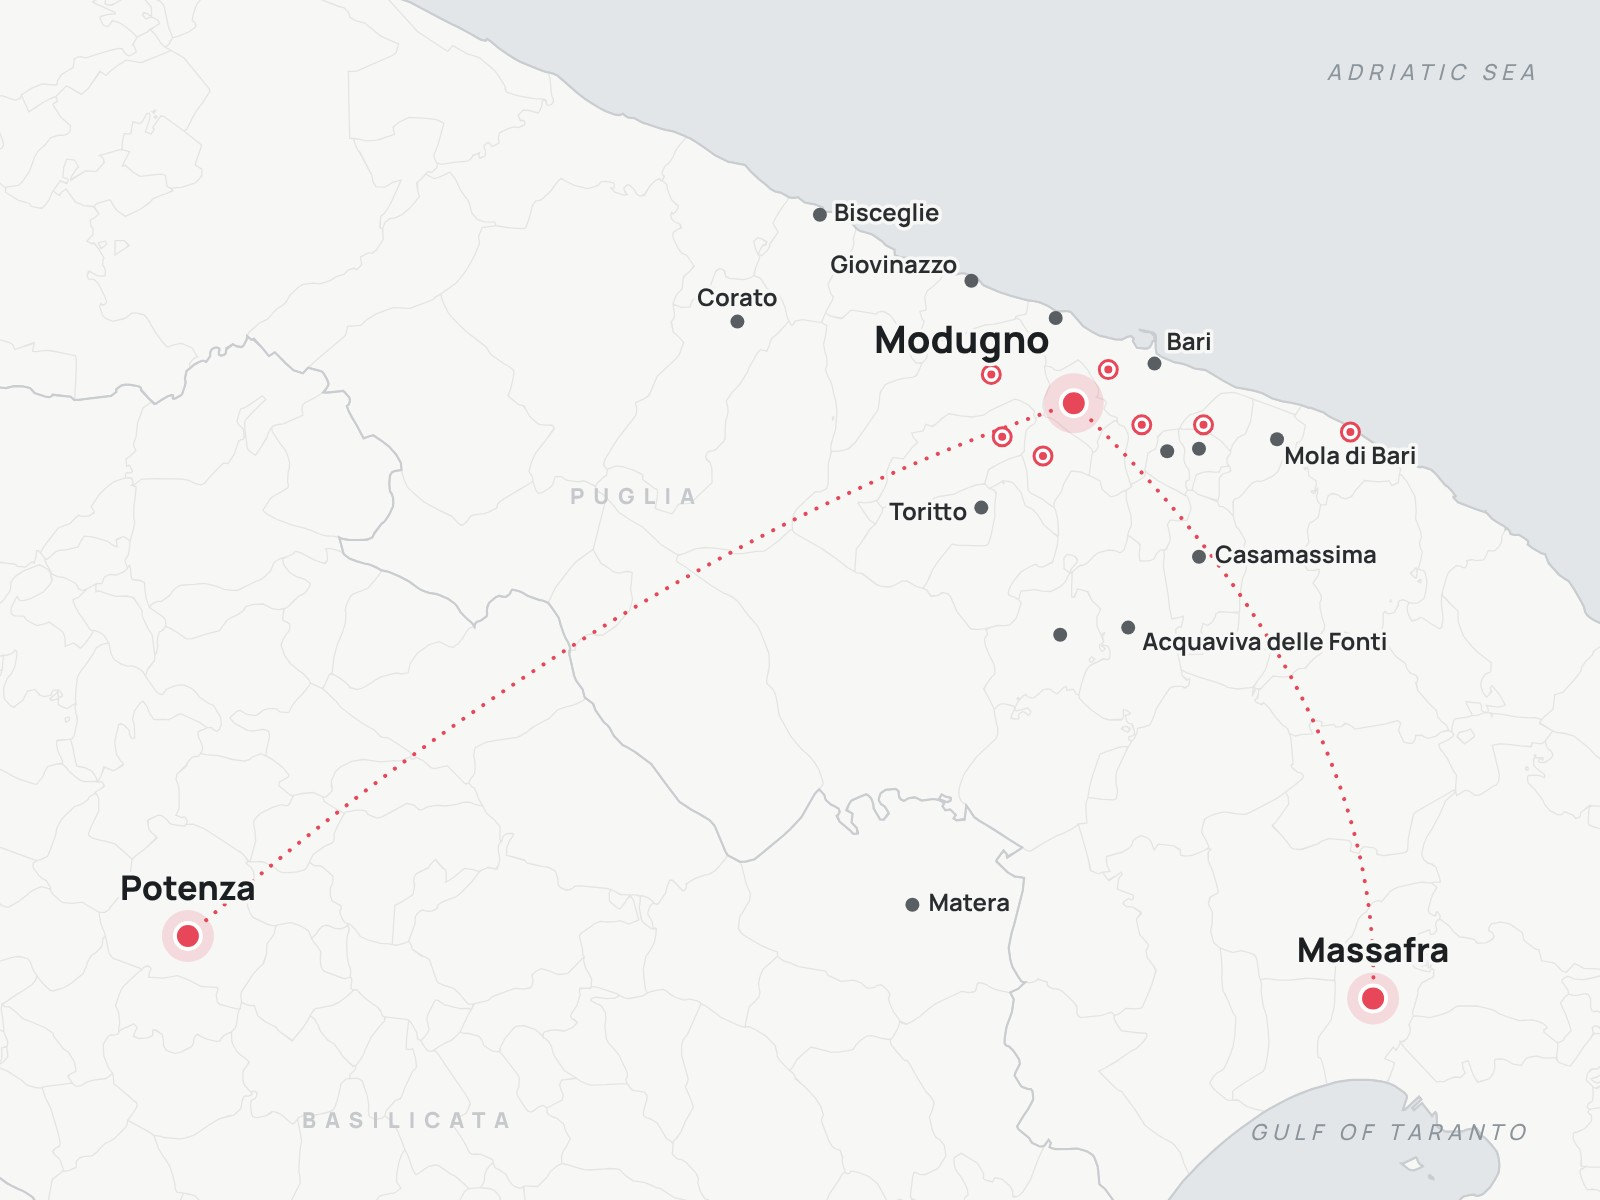
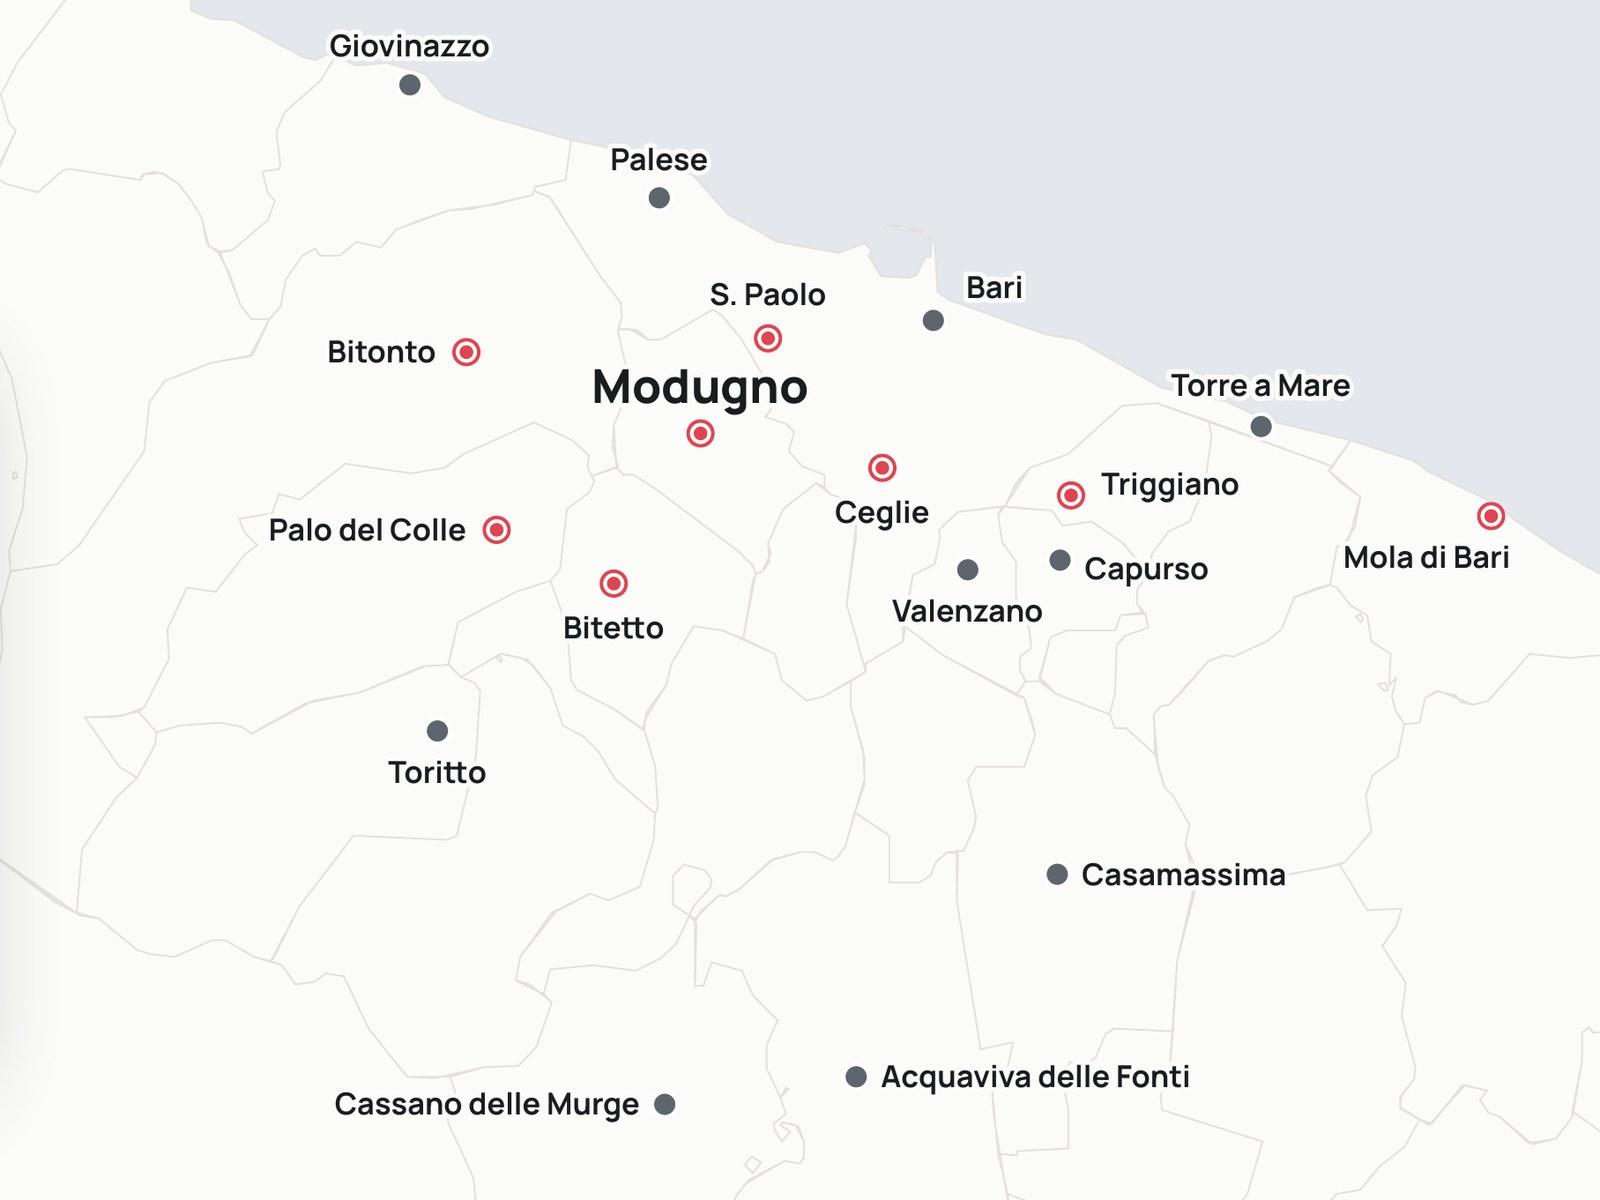
First Plant & Strengthen update with map; restore Bari-area card image
Claude-Session: https://claude.ai/code/session_013kztrHzovLqwhmGrDJ4oHt

diff --git a/public/updates/plant-and-strengthen-first-steps/index.html b/public/updates/plant-and-strengthen-first-steps/index.html
@@ -1,0 +1,97 @@
+<!doctype html>
+<html lang="en">
+<head>
+<meta charset="utf-8">
+<meta name="viewport" content="width=device-width, initial-scale=1">
+<title>Beyond Modugno: Giugliano, Potenza and Massafra · From the Heel of Italy</title>
+<meta name="description" content="Our first update from Plant &amp; Strengthen: the places outside our city where we are already helping churches to be born and to stand firm.">
+<link rel="canonical" href="https://fromtheheelofitaly.org/updates/plant-and-strengthen-first-steps/">
+<meta property="og:title" content="Beyond Modugno: Giugliano, Potenza and Massafra · From the Heel of Italy">
+<meta property="og:description" content="Our first update from Plant &amp; Strengthen: the places outside our city where we are already helping churches to be born and to stand firm.">
+<meta property="og:url" content="https://fromtheheelofitaly.org/updates/plant-and-strengthen-first-steps/">
+<meta property="og:type" content="website">
+<meta property="og:image" content="https://fromtheheelofitaly.org/images/2026-11-plant-strengthen-map.jpg">
+<meta name="theme-color" content="#f6f6f6">
+<meta name="robots" content="noindex, nofollow">
+<link rel="icon" href="/img/pv-glifo.svg" type="image/svg+xml">
+<link rel="preload" href="/fonts/manrope-latin-400-normal.woff2" as="font" type="font/woff2" crossorigin>
+<link rel="alternate" type="application/rss+xml" title="From the Heel of Italy" href="/feed.xml">
+<link rel="stylesheet" href="/css/style.css">
+</head>
+<body>
+<header class="site-header">
+  <div class="wrap">
+    <a class="brand" href="/"><img class="pv-logo" src="/img/pv-glifo.svg" alt="Chiesa Pienovangelo"><span class="sep"></span><span class="upd">Updates</span></a>
+    <button class="nav-toggle" aria-label="Menu" onclick="document.querySelector('.nav').classList.toggle('open')">Menu</button>
+    <nav class="nav"><a href="/family/">Family</a><a href="/church/">Church Life</a><a href="/il-rifugio/">Il Rifugio</a><a href="/missions/">Missions</a><a href="/plant-and-strengthen/" class=active>Church Planting</a><a class="btn-sub" href="/support/">Support</a></nav>
+  </div>
+</header>
+<main>
+<article>
+  <header class="article-head"><div class="narrow">
+    <a class="eyebrow" href="/plant-and-strengthen/">Plant &amp; Strengthen</a>
+    <h1 class="display">Beyond Modugno: Giugliano, Potenza and Massafra</h1>
+    <div class="meta">19 November 2026 · Pastor Mirko Ronchi</div>
+  </div></header>
+  <div class="article-cover"><div class="media "><img src="/images/2026-11-plant-strengthen-map.jpg" alt="Map of southern Italy with dotted lines from Modugno to Giugliano, Potenza and Massafra" loading="lazy"></div></div>
+  <div class="narrow page-body"><div class="prose-card prose"><p>Dear friends,</p>
+<p>Our church in Modugno was born in the 1970s from the work of missionaries from the Netherlands, supported by Dutch churches. We have never forgotten it. Someone planted and watered so that a church could grow here. From the beginning we have felt the responsibility to do the same for others: to help new churches be born, and to stand beside churches that are going through a hard time.</p>
+<p>This first update from <strong>Plant &amp; Strengthen</strong> is a simple map of where this is already happening.</p>
+<p><strong>Potenza.</strong> In the main city of Basilicata we have been walking alongside a church that has gone through a deeply difficult season. Our role is not to take over, but to support, encourage and help it get back on its feet.</p>
+<p><strong>Giugliano.</strong> Near Naples, we have accompanied a couple who started a new church community. Planting a church is lonely work, and we want them to know that they are not alone.</p>
+<p><strong>Massafra.</strong> In the province of Taranto, we supported the church through a delicate transition to new pastors. Nearby, in Mottola, a church plant we had begun came to a halt for various reasons. But the new leadership in Massafra has opened its doors to the believers reached in Mottola, and they are now part of a renewed church.</p>
+<p><strong>Southern Puglia.</strong> We have also begun a new church planting project in the south of our own region.</p>
+<h2>Looking ahead</h2>
+<p>Our desire is that in the next ten years new churches will be born all across Puglia. It is still a region where, even in the larger towns, there is often no living and healthy church. God has already given us leaders who are prepared and carry this vision. Today they serve while balancing work, family and ministry, and we are praying for the way to release them to serve full time.</p>
+<h2>How you can pray</h2>
+<ul>
+<li>For the churches in Potenza, Giugliano and Massafra, and for their leaders.</li>
+<li>For the new church planting project in southern Puglia.</li>
+<li>For the leaders God is preparing to plant new churches in our region.</li>
+</ul>
+<p>In the coming updates we will tell you more about each of these places and the people behind them. Thank you for standing with us.</p>
+<p><em>Pastor Mirko</em></p>
+    <div class="article-foot"><a href="/plant-and-strengthen/">← All Plant &amp; Strengthen updates</a><a href="#subscribe">Get updates by email →</a></div>
+  </div></div>
+</article>
+
+<section class="subscribe" id="subscribe"><div class="wrap"><div class="box">
+  <div>
+    <h2 class="display">Walk <em>with us</em></h2>
+    <p>A short update every few weeks: one story, one photo and a link to read more. No spam, unsubscribe anytime.</p>
+  </div>
+  <div class="actions">
+    <a class="btn btn-primary" href="#subscribe">Subscribe</a>
+    <a class="btn btn-light" href="/support/">Support the work</a>
+  </div>
+</div></div></section>
+</main>
+<footer class="site-footer">
+  <div class="wrap">
+    <div class="cols">
+      <div>
+        <a class="foot-brand" href="https://pienovangelo.it" rel="noopener"><img src="/img/pv-glifo.svg" alt="Chiesa Pienovangelo"></a>
+        <p class="brandline">From the Heel of Italy<br><em>to the ends of the earth</em></p>
+        <p>Updates from the Pieno Vangelo ministry and the Ronchi family: our church in Modugno, Il Rifugio, missions and church planting across Puglia and beyond.</p>
+      </div>
+      <div>
+        <h4>Areas</h4>
+        <ul><li><a href="/family/">Family Life</a></li><li><a href="/church/">Church Life</a></li><li><a href="/il-rifugio/">Il Rifugio Center</a></li><li><a href="/missions/">To the Ends of the Earth</a></li><li><a href="/plant-and-strengthen/">Plant &amp; Strengthen</a></li></ul>
+      </div>
+      <div>
+        <h4>Stay in touch</h4>
+        <ul>
+          <li><a href="#subscribe">Subscribe to the newsletter</a></li>
+          <li><a href="/support/">Support the work</a></li>
+          <li><a href="/about/">About us</a></li>
+          
+          <li><a href="https://pienovangelo.it" rel="noopener">pienovangelo.it</a></li>
+          <li><a href="/feed.xml">RSS feed</a></li>
+        </ul>
+      </div>
+    </div>
+    <p class="small">© 2026 Pieno Vangelo Church · Modugno (BA), Italy · <a href="/privacy/">Privacy</a></p>
+  </div>
+</footer>
+</body>
+</html>

diff --git a/public/index.html b/public/index.html
@@ -42,15 +42,23 @@
     <h2 class="display">Latest updates</h2>
     <a class="link" href="/updates/">All updates →</a>
   </div>
-  <a class="featured" href="/updates/welcome/">
+  <a class="featured" href="/updates/plant-and-strengthen-first-steps/">
+  <div class="media "><img src="/images/2026-11-plant-strengthen-map.jpg" alt="Map of southern Italy with dotted lines from Modugno to Giugliano, Potenza and Massafra" loading="lazy"></div>
+  <div class="body">
+    <span class="tag">Plant &amp; Strengthen</span>
+    <h3>Beyond Modugno: Giugliano, Potenza and Massafra</h3>
+    <p>Our first update from Plant &amp; Strengthen: the places outside our city where we are already helping churches to be born and to stand firm.</p>
+    <span class="meta">19 November 2026 · Read more →</span>
+  </div>
+</a><div class="grid top"><a class="card" href="/updates/welcome/">
   <div class="media ph " style="--c:#e74759"><svg viewBox="0 0 24 24" fill="none" stroke="currentColor" stroke-width="1.8" stroke-linecap="round" stroke-linejoin="round"><path d="M12 2v5M10 4h4"/><path d="M6 21V11l6-4 6 4v10"/><path d="M3 21h18"/><path d="M10 21v-4a2 2 0 0 1 4 0v4"/></svg></div>
   <div class="body">
     <span class="tag">News</span>
     <h3>Welcome to our updates</h3>
     <p>Why we are starting this newsletter, what you will find here, and how you can walk with us from Puglia to the nations.</p>
-    <span class="meta">18 November 2026 · Read more →</span>
+    <span class="meta">18 November 2026</span>
   </div>
-</a>
+</a></div>
 </div></section>
 <section><div class="wrap">
   <div class="section-head">
@@ -91,7 +99,7 @@
 </a><a class="area-card" href="/plant-and-strengthen/" style="--c:#8a9a3b">
   <div class="media"><img src="/images/area-planting.jpg" alt="" loading="lazy"></div>
   <div class="body">
-    <span class="tag">Coming soon</span>
+    <span class="tag">1 update</span>
     <h3>Plant &amp; Strengthen</h3>
     <p>Planting new churches across Puglia, a region where many towns still have no living church, and standing alongside existing churches that need support to keep going.</p>
     <span class="go">Read the updates</span>

diff --git a/public/updates/index.html b/public/updates/index.html
@@ -32,7 +32,15 @@
   <h1 class="display">All <em>updates</em></h1>
   <nav class="chips"><a href="/updates/" class=on>All</a><a href="/family/">Family</a><a href="/church/">Church Life</a><a href="/il-rifugio/">Il Rifugio</a><a href="/missions/">Missions</a><a href="/plant-and-strengthen/">Church Planting</a></nav>
 </div></header>
-<section><div class="wrap"><div class="grid "><a class="card" href="/updates/welcome/">
+<section><div class="wrap"><div class="grid "><a class="card" href="/updates/plant-and-strengthen-first-steps/">
+  <div class="media "><img src="/images/2026-11-plant-strengthen-map.jpg" alt="Map of southern Italy with dotted lines from Modugno to Giugliano, Potenza and Massafra" loading="lazy"></div>
+  <div class="body">
+    <span class="tag">Plant &amp; Strengthen</span>
+    <h3>Beyond Modugno: Giugliano, Potenza and Massafra</h3>
+    <p>Our first update from Plant &amp; Strengthen: the places outside our city where we are already helping churches to be born and to stand firm.</p>
+    <span class="meta">19 November 2026</span>
+  </div>
+</a><a class="card" href="/updates/welcome/">
   <div class="media ph " style="--c:#e74759"><svg viewBox="0 0 24 24" fill="none" stroke="currentColor" stroke-width="1.8" stroke-linecap="round" stroke-linejoin="round"><path d="M12 2v5M10 4h4"/><path d="M6 21V11l6-4 6 4v10"/><path d="M3 21h18"/><path d="M10 21v-4a2 2 0 0 1 4 0v4"/></svg></div>
   <div class="body">
     <span class="tag">News</span>

diff --git a/public/plant-and-strengthen/index.html b/public/plant-and-strengthen/index.html
@@ -31,7 +31,7 @@
   <div class="window has-img" style="--c:#8a9a3b">
     <div class="bg"><img src="/images/area-planting.jpg" alt="" loading="lazy"></div>
     <div class="inner">
-      <span class="count">Coming soon</span>
+      <span class="count">1 update</span>
       <h1>Plant &amp; Strengthen</h1>
       <p>Planting new churches across Puglia, a region where many towns still have no living church, and standing alongside existing churches that need support to keep going.</p>
     </div>
@@ -41,7 +41,15 @@
 
 <section><div class="wrap">
   
-  <div class="empty">The first update from this area is on its way.</div>
+  <div class="grid "><a class="card" href="/updates/plant-and-strengthen-first-steps/">
+  <div class="media "><img src="/images/2026-11-plant-strengthen-map.jpg" alt="Map of southern Italy with dotted lines from Modugno to Giugliano, Potenza and Massafra" loading="lazy"></div>
+  <div class="body">
+    <span class="tag">Plant &amp; Strengthen</span>
+    <h3>Beyond Modugno: Giugliano, Potenza and Massafra</h3>
+    <p>Our first update from Plant &amp; Strengthen: the places outside our city where we are already helping churches to be born and to stand firm.</p>
+    <span class="meta">19 November 2026</span>
+  </div>
+</a></div>
 </div></section>
 <section class="subscribe" id="subscribe"><div class="wrap"><div class="box">
   <div>

diff --git a/public/updates/welcome/index.html b/public/updates/welcome/index.html
@@ -51,7 +51,18 @@
     <div class="article-foot"><a href="/updates/">← All updates</a><a href="#subscribe">Get updates by email →</a></div>
   </div></div>
 </article>
-
+<section><div class="wrap">
+  <div class="section-head"><h2 class="display">More updates</h2></div>
+  <div class="grid "><a class="card" href="/updates/plant-and-strengthen-first-steps/">
+  <div class="media "><img src="/images/2026-11-plant-strengthen-map.jpg" alt="Map of southern Italy with dotted lines from Modugno to Giugliano, Potenza and Massafra" loading="lazy"></div>
+  <div class="body">
+    <span class="tag">Plant &amp; Strengthen</span>
+    <h3>Beyond Modugno: Giugliano, Potenza and Massafra</h3>
+    <p>Our first update from Plant &amp; Strengthen: the places outside our city where we are already helping churches to be born and to stand firm.</p>
+    <span class="meta">19 November 2026</span>
+  </div>
+</a></div>
+</div></section>
 <section class="subscribe" id="subscribe"><div class="wrap"><div class="box">
   <div>
     <h2 class="display">Walk <em>with us</em></h2>

diff --git a/brand/map-modugno-giugliano-potenza-massafra.py b/brand/map-modugno-giugliano-potenza-massafra.py
@@ -1,0 +1,71 @@
+import json, math
+W, H = 1600, 1200
+LON0 = 15.65
+KX = W / 3.6
+LAT0 = 40.93
+K = KX / math.cos(math.radians(LAT0))
+LAT_TOP = LAT0 + (H / 2) / K
+def xy(lon, lat): return ((lon - LON0) * KX + W/2, (LAT_TOP - lat) * K)
+
+def rings(geom):
+    if geom["type"] == "Polygon": return geom["coordinates"]
+    if geom["type"] == "MultiPolygon": return [r for poly in geom["coordinates"] for r in poly]
+    return []
+def path(geom, simplify=1.2):
+    out = []
+    for ring in rings(geom):
+        pts = [xy(*p[:2]) for p in ring]
+        xs = [p[0] for p in pts]; ys = [p[1] for p in pts]
+        if max(xs) < -200 or min(xs) > W+200 or max(ys) < -200 or min(ys) > H+200: continue
+        keep = [pts[0]]
+        for p in pts[1:]:
+            if abs(p[0]-keep[-1][0]) + abs(p[1]-keep[-1][1]) >= simplify: keep.append(p)
+        if len(keep) > 2: out.append("M" + " L".join(f"{x:.1f},{y:.1f}" for x, y in keep) + "Z")
+    return "".join(out)
+
+regions = json.load(open("/tmp/geo/limits_IT_regions.geojson"))["features"]
+land = "".join(path(f["geometry"]) for f in regions if f["properties"]["reg_name"] in ("Puglia","Basilicata","Campania","Calabria","Molise","Lazio","Abruzzo"))
+regline = "".join(path(f["geometry"]) for f in regions if f["properties"]["reg_name"] in ("Puglia","Basilicata","Campania","Molise","Calabria"))
+muni = ""
+for r in (15, 16, 17):
+    for f in json.load(open(f"/tmp/geo/limits_R_{r}_municipalities.geojson"))["features"]:
+        muni += path(f["geometry"], simplify=2.2)
+
+modugno = (16.782, 41.084)
+targets = {"Giugliano": (14.196, 40.928, "middle", -40), "Potenza": (15.805, 40.640, "middle", -40), "Massafra": (17.112, 40.588, "middle", -40)}
+mx, my = xy(*modugno)
+arcs, marks = [], []
+for n, (lo, la, anc, dy) in targets.items():
+    x, y = xy(lo, la)
+    if n == "Giugliano": c = ((mx + x)/2, min(my, y) - 230)
+    elif n == "Potenza": c = ((mx + x)/2 - 40, (my + y)/2 - 110)
+    else: c = ((mx + x)/2 + 130, (my + y)/2)
+    arcs.append(f'<path d="M{mx:.1f},{my:.1f} Q{c[0]:.1f},{c[1]:.1f} {x:.1f},{y:.1f}" fill="none" stroke="#e74759" stroke-width="4.5" stroke-linecap="round" stroke-dasharray=".1 13"/>')
+    marks.append(f'<circle cx="{x:.1f}" cy="{y:.1f}" r="40" fill="#f4b41a" opacity=".22"/>'
+                 f'<circle cx="{x:.1f}" cy="{y:.1f}" r="21" fill="#f4b41a" stroke="#fff" stroke-width="5"/>'
+                 f'<text x="{x:.1f}" y="{y+dy-8:.1f}" text-anchor="{anc}" font-size="38" font-weight="800" fill="#1c1f21" class="halo">{n}</text>')
+marks.append(f'<circle cx="{mx:.1f}" cy="{my:.1f}" r="32" fill="#e74759" opacity=".18"/><circle cx="{mx:.1f}" cy="{my:.1f}" r="15" fill="#e74759" stroke="#fff" stroke-width="5"/>'
+             f'<text x="{mx:.1f}" y="{my-40:.1f}" text-anchor="middle" font-size="40" font-weight="800" fill="#1c1f21" class="halo">Modugno</text>')
+def t(lon, lat, s, cls): x, y = xy(lon, lat); return f'<text x="{x:.0f}" y="{y:.0f}" text-anchor="middle" class="{cls}">{s}</text>'
+svg = f'''<svg xmlns="http://www.w3.org/2000/svg" width="{W}" height="{H}" viewBox="0 0 {W} {H}">
+<style>
+@font-face{{font-family:M;src:url(file:///home/claude/fromtheheelofitaly/static/fonts/manrope-latin-500-normal.woff2);font-weight:500}}
+@font-face{{font-family:M;src:url(file:///home/claude/fromtheheelofitaly/static/fonts/manrope-latin-800-normal.woff2);font-weight:800}}
+text{{font-family:M,sans-serif}}
+.halo{{paint-order:stroke;stroke:#f7f7f6;stroke-width:8px;stroke-linejoin:round}}
+.sea{{font-size:22px;font-weight:500;fill:#8a949a;letter-spacing:6px;font-style:italic}}
+.reg{{font-size:22px;font-weight:800;fill:#c3c7c9;letter-spacing:9px}}
+</style>
+<rect width="{W}" height="{H}" fill="#e2e6e9"/>
+<path d="{land}" fill="#f7f7f6" stroke="#cfd3d6" stroke-width="1.5"/>
+<path d="{muni}" fill="none" stroke="#e7e8e6" stroke-width="1.1"/>
+<path d="{regline}" fill="none" stroke="#c9cdd0" stroke-width="2.2"/>
+{t(17.05, 41.75, "ADRIATIC SEA", "sea")}
+{t(14.45, 40.25, "TYRRHENIAN SEA", "sea")}
+{t(16.88, 40.08, "GULF OF TARANTO", "sea")}
+{t(14.85, 41.22, "CAMPANIA", "reg")}
+{t(16.05, 40.30, "BASILICATA", "reg")}
+{t(16.20, 41.30, "PUGLIA", "reg")}
+{"".join(arcs)}{"".join(marks)}
+</svg>'''
+open("/tmp/mapgen/map2.svg", "w").write(svg)

diff --git a/content/posts/2026-11-19-plant-and-strengthen-first-steps.md b/content/posts/2026-11-19-plant-and-strengthen-first-steps.md
@@ -1,0 +1,36 @@
+---
+title: Beyond Modugno: Giugliano, Potenza and Massafra
+date: 2026-11-19
+area: plant-and-strengthen
+cover: /images/2026-11-plant-strengthen-map.jpg
+cover_alt: Map of southern Italy with dotted lines from Modugno to Giugliano, Potenza and Massafra
+excerpt: Our first update from Plant & Strengthen: the places outside our city where we are already helping churches to be born and to stand firm.
+---
+
+Dear friends,
+
+Our church in Modugno was born in the 1970s from the work of missionaries from the Netherlands, supported by Dutch churches. We have never forgotten it. Someone planted and watered so that a church could grow here. From the beginning we have felt the responsibility to do the same for others: to help new churches be born, and to stand beside churches that are going through a hard time.
+
+This first update from **Plant & Strengthen** is a simple map of where this is already happening.
+
+**Potenza.** In the main city of Basilicata we have been walking alongside a church that has gone through a deeply difficult season. Our role is not to take over, but to support, encourage and help it get back on its feet.
+
+**Giugliano.** Near Naples, we have accompanied a couple who started a new church community. Planting a church is lonely work, and we want them to know that they are not alone.
+
+**Massafra.** In the province of Taranto, we supported the church through a delicate transition to new pastors. Nearby, in Mottola, a church plant we had begun came to a halt for various reasons. But the new leadership in Massafra has opened its doors to the believers reached in Mottola, and they are now part of a renewed church.
+
+**Southern Puglia.** We have also begun a new church planting project in the south of our own region.
+
+## Looking ahead
+
+Our desire is that in the next ten years new churches will be born all across Puglia. It is still a region where, even in the larger towns, there is often no living and healthy church. God has already given us leaders who are prepared and carry this vision. Today they serve while balancing work, family and ministry, and we are praying for the way to release them to serve full time.
+
+## How you can pray
+
+- For the churches in Potenza, Giugliano and Massafra, and for their leaders.
+- For the new church planting project in southern Puglia.
+- For the leaders God is preparing to plant new churches in our region.
+
+In the coming updates we will tell you more about each of these places and the people behind them. Thank you for standing with us.
+
+*Pastor Mirko*

diff --git a/content/newsletter/2026-11-19-plant-and-strengthen.md b/content/newsletter/2026-11-19-plant-and-strengthen.md
@@ -1,0 +1,18 @@
+Subject: Beyond Modugno: Giugliano, Potenza and Massafra
+Preview text: Where we are already helping churches to be born and to stand firm.
+Image: /images/2026-11-plant-strengthen-map.jpg
+Read more: https://fromtheheelofitaly.org/updates/plant-and-strengthen-first-steps/
+
+PLANT & STRENGTHEN
+
+Beyond Modugno: Giugliano, Potenza and Massafra
+
+Our church in Modugno was born in the 1970s from the work of Dutch missionaries. Someone planted and watered so that a church could grow here, and from the beginning we have felt the responsibility to do the same for others.
+
+This map shows where that is already happening. In Potenza we are walking alongside a church that has been through a very hard season. Near Naples, in Giugliano, we have accompanied a couple who started a new church community. In Massafra we supported the church through a delicate change of pastors, and it has welcomed the believers reached in nearby Mottola. We have also begun a new church planting project in southern Puglia.
+
+Our desire is to see new churches born all across Puglia in the next ten years. God has already given us leaders ready for this work.
+
+Please pray with us for these churches, their leaders, and the new churches still to come.
+
+[Read the full update →]
